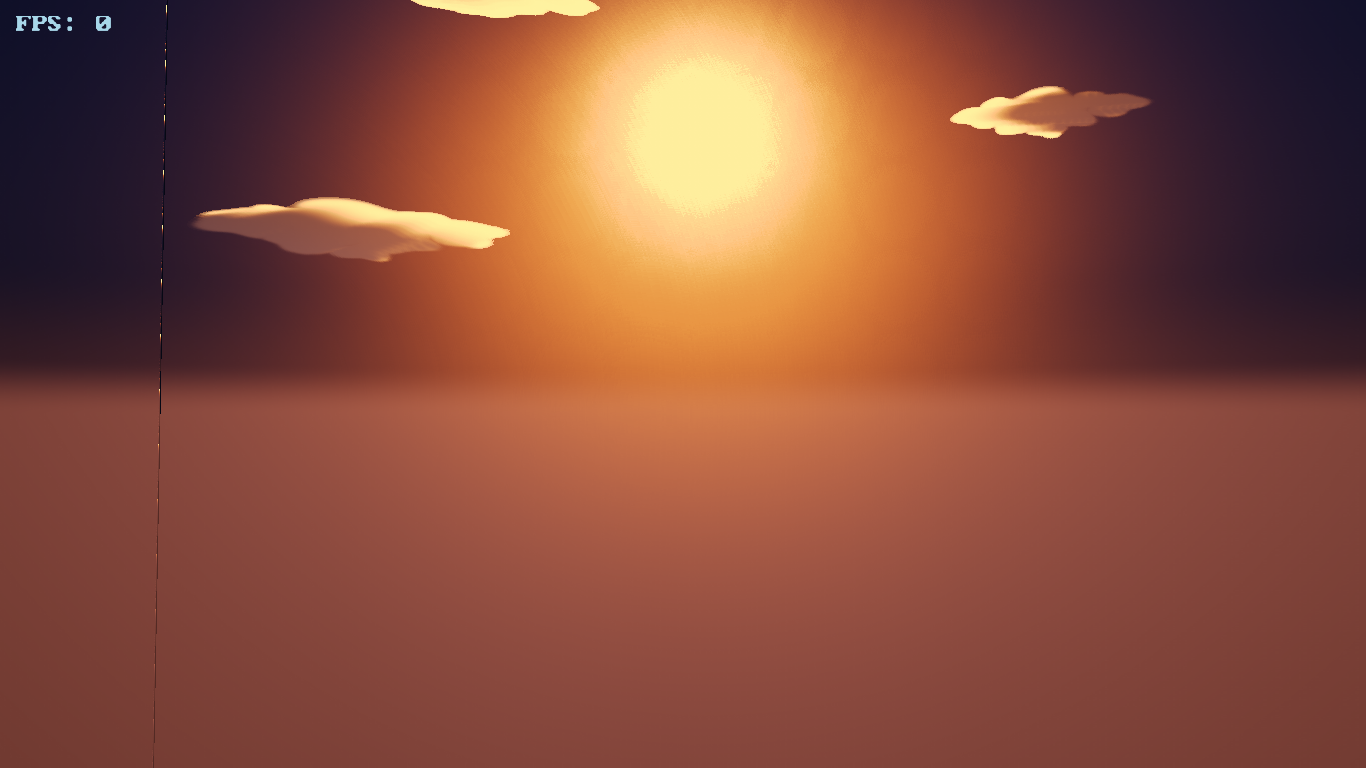
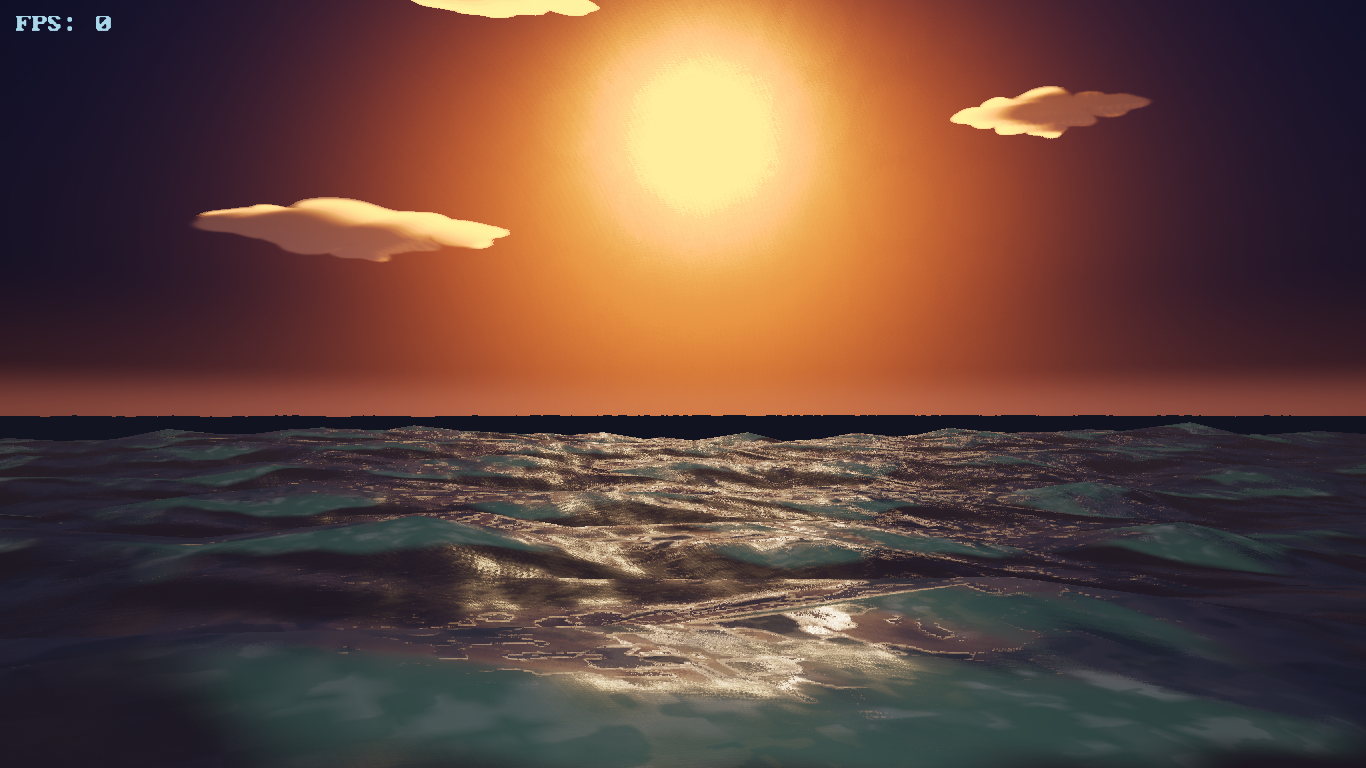
Fix the sea: its two stages disagreed about uTime's precision, so it never linked
Scene 2's sea program was never valid on any strict ES 3.0 linker. sea_vert.glsl
reads uTime for the wave displacement and sea_frag.glsl reads the same uniform for
the foam and ripple scroll; a vertex shader's float defaults to highp while
sea_frag's `precision mediump float;` made its copy mediump, and the linker
rejects the pair with "declarations for uniform `uTime` have mismatching precision
qualifiers". The sky and HUD programs are unaffected because no uniform of theirs
is shared between stages, which is exactly why the device showed a sky with no
sea: a program that fails to link contributes no pixels and leaves nothing on
screen to read. Declaring uTime highp in the fragment stage fixes it; the sea's
ALU stays mediump.

This also makes the earlier "both scenes render, all six programs compile" claim
false for every revision before this one, so it is corrected rather than dropped:
the frame the host check called a sea was the sky dome's lower half, and it still
reported lit=1049088/1049088, because a lit count cannot see a program that was
never linked. android/screenshots/scene2_dusk_ocean.png is regenerated from the
fixed tree (the committed one was byte-identical to a fresh pre-fix render), and
the fix changes 482007 pixels - 45.9% of the image, every row from the horizon
down - while the sky above it stays identical to within 0.1/255 on the mean.

New guard: `make -f android/Makefile host-shaders` compiles and links all six
[…]

diff --git a/README.md b/README.md
@@ -112,10 +112,16 @@ make -f android/Makefile \
      ANDROID_SDK_ROOT=build-android/toolchain/sdk
 make -f android/Makefile verify ...   # manifest, signature, ABIs, entry point
 make -f android/Makefile check ...    # shader validation (same as the Vita port)
+make -f android/Makefile host-shaders # link all six programs through host ES 3
 ```
 
 The two environment variables are the ones `fetch_toolchain.sh` prints at the
 end. `make -f android/Makefile doctor` says which tool it resolved to what.
+
+`check` validates each shader on its own; `host-shaders` compiles and links every
+program the two scenes load, which is the only check that can see the two stages
+of one program disagree (see *What was verified, and what was not*). It needs no
+device and takes about a second.
 
 ### Install and run
 
@@ -356,19 +362,56 @@ Verified by rendering the port's own code under a real OpenGL ES 3 driver: the
 harness in `android/host/` (`make -f android/Makefile host-render`) runs the
 **same** scene translation units and the **same** `shaders/` tree through Mesa's
 llvmpipe on the host — ES 3.2, the API level the APK targets — and lets the
-scenes write their own frames out. Both scenes come up, all six programs compile
-with no errors, and both produce full frames: scene 2
-`lit=1049088/1049088` (not one black pixel) and scene 4 `lit=1048910/1049088` at
-1366x768. The images are committed as
-`android/screenshots/scene2_dusk_ocean.png` and
+scenes write their own frames out. Both scenes come up and both produce full
+frames: scene 2 `lit=1049088/1049088` and scene 4 `lit=1048910/1049088` at
+1366x768.
+
+**A `lit` count is exactly what hid the sea.** Scene 2's sea program did not link
+at all in every revision before this one, so the sea contributed no pixels while
+the sky dome filled the same rows and the frame still reported every pixel lit —
+an entirely plausible "dusk sky over dark water" frame with no water in it. The
+driver's reason, reproduced on the host:
+
+```
+Program shaders/ps14/sea_vert.glsl/shaders/ps14/sea_frag.glsl failed to link:
+error: declarations for uniform `uTime` have mismatching precision qualifiers
+```
+
+`uTime` is the one uniform the sea's two stages share (the vertex stage displaces
+the surface with it, the fragment stage scrolls foam and ripple with it). A vertex
+shader's `float` defaults to `highp`, and `shaders/ps14/sea_frag.glsl`'s
+`precision mediump float;` made its copy `mediump`, which an ES 3.0 linker must
+reject; the sea program was therefore never valid, while the sky and HUD programs
+linked fine because no uniform of theirs is shared. The fix is one explicit
+`highp` on that declaration in the fragment stage; the sea's ALU stays `mediump`.
+The Vita port packs this same `shaders/` tree (`-a shaders=shaders` in the root
+Makefile), so the fix reaches it too — whether SceShaccCg was linking the pair into
+a broken program or silently tolerating it is untested, since no Vita was
+available.
+
+`make -f android/Makefile host-shaders` closes the hole: it compiles and links all
+six programs through the host's ES 3 driver, prints each verdict with the driver's
+own log, and exits non-zero if any pair fails. Run against the revision that
+shipped the sea-less frame it reproduces the failure above; on the fixed tree it
+prints `SHADER_LINK_CHECK: 6 linked, 0 failure(s)`. Measured on the frame, the fix
+changes 482,007 pixels — 45.9% of the image, every row from the horizon down —
+while the sky above the horizon stays identical to within 0.1/255 on the mean. The
+images are committed as `android/screenshots/scene2_dusk_ocean.png` (which
+replaced a sea-less one, byte-identical to a fresh pre-fix render) and
 `android/screenshots/scene4_power_lines.png`.
 
-**Not verified:** nothing was run on a device or in an emulator. This container
-has no phone, no Android emulator and no KVM, so the Android-specific layer —
-activity lifecycle, `ANativeActivity`, `AInputQueue`, `eglCreateWindowSurface`
-on a real surface, the external-files path, and the capture blit on a real
-driver — is covered by compilation, link-time symbol and dependency checks, and
-the app's own logging, but not by execution. That is exactly why the host
-harness above is part of the repo: it is the closest thing to a pixel-level
-check available here, and it covers the scenes and the shaders rather than the
-glue around them.
+**Not verified:** the fixed APK has not been run anywhere. Nothing was executed
+on a device or in an emulator *from this container* — no phone, no Android
+emulator, no KVM — so the Android-specific layer — activity lifecycle,
+`ANativeActivity`, `AInputQueue`, `eglCreateWindowSurface` on a real surface, the
+external-files path, and the capture blit on a real driver — is covered by
+compilation, link-time symbol and dependency checks, and the app's own logging,
+but not by execution. That is exactly why the host harness above is part of the
+repo: it is the closest thing to a pixel-level check available here, and it covers
+the scenes and the shaders rather than the glue around them.
+
+What *was* seen on a device is the symptom that led here: scene 2 rendered its sky
+dome and its HUD, reported no error on screen, and showed no sea at all — no black
+rectangle, just sky continuing down. That is this link failure as a user sees it.
+The fix itself is host-verified (link check plus the 45.9% frame change above), so
+confirming it on that device is the remaining step.
